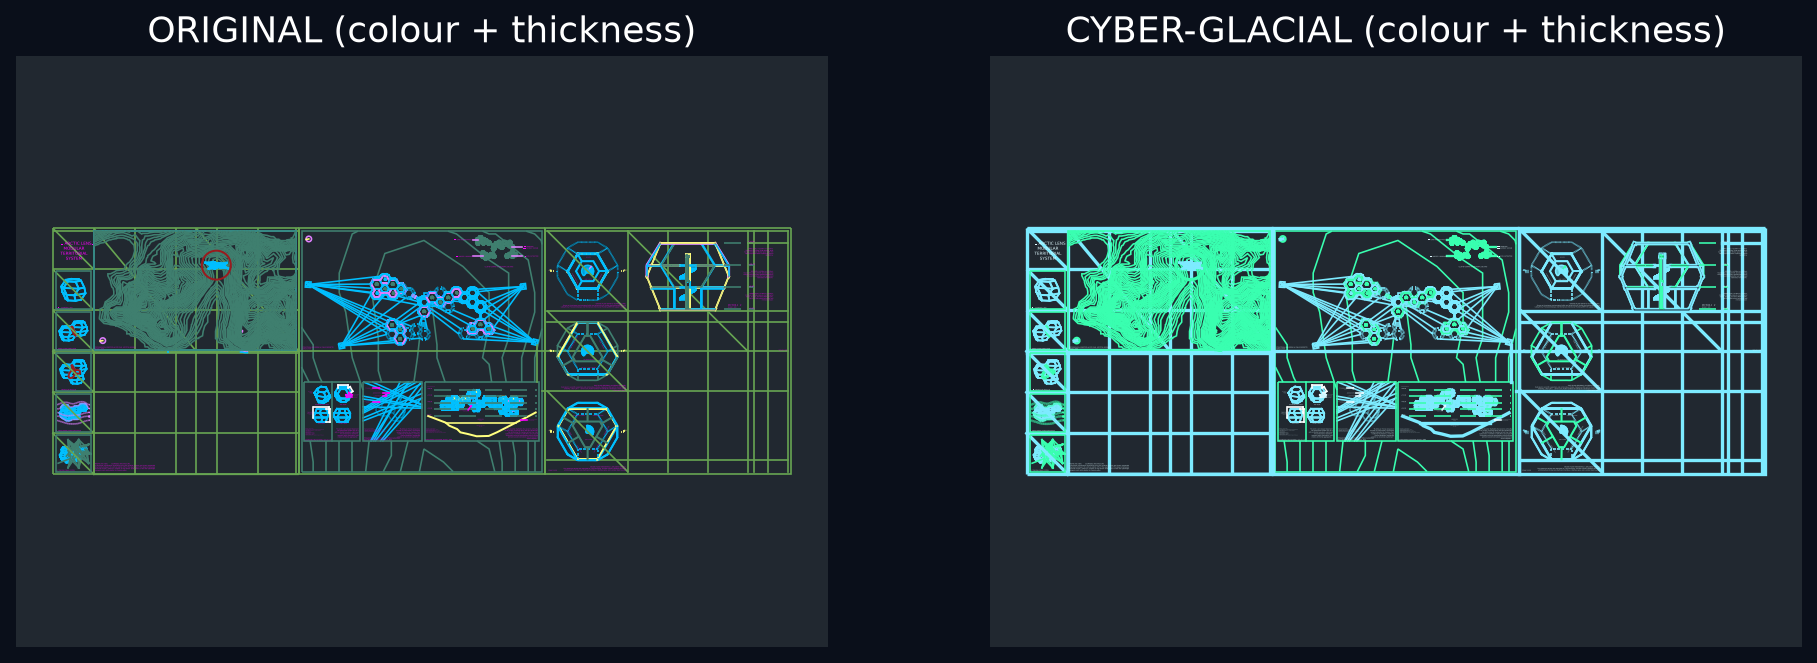
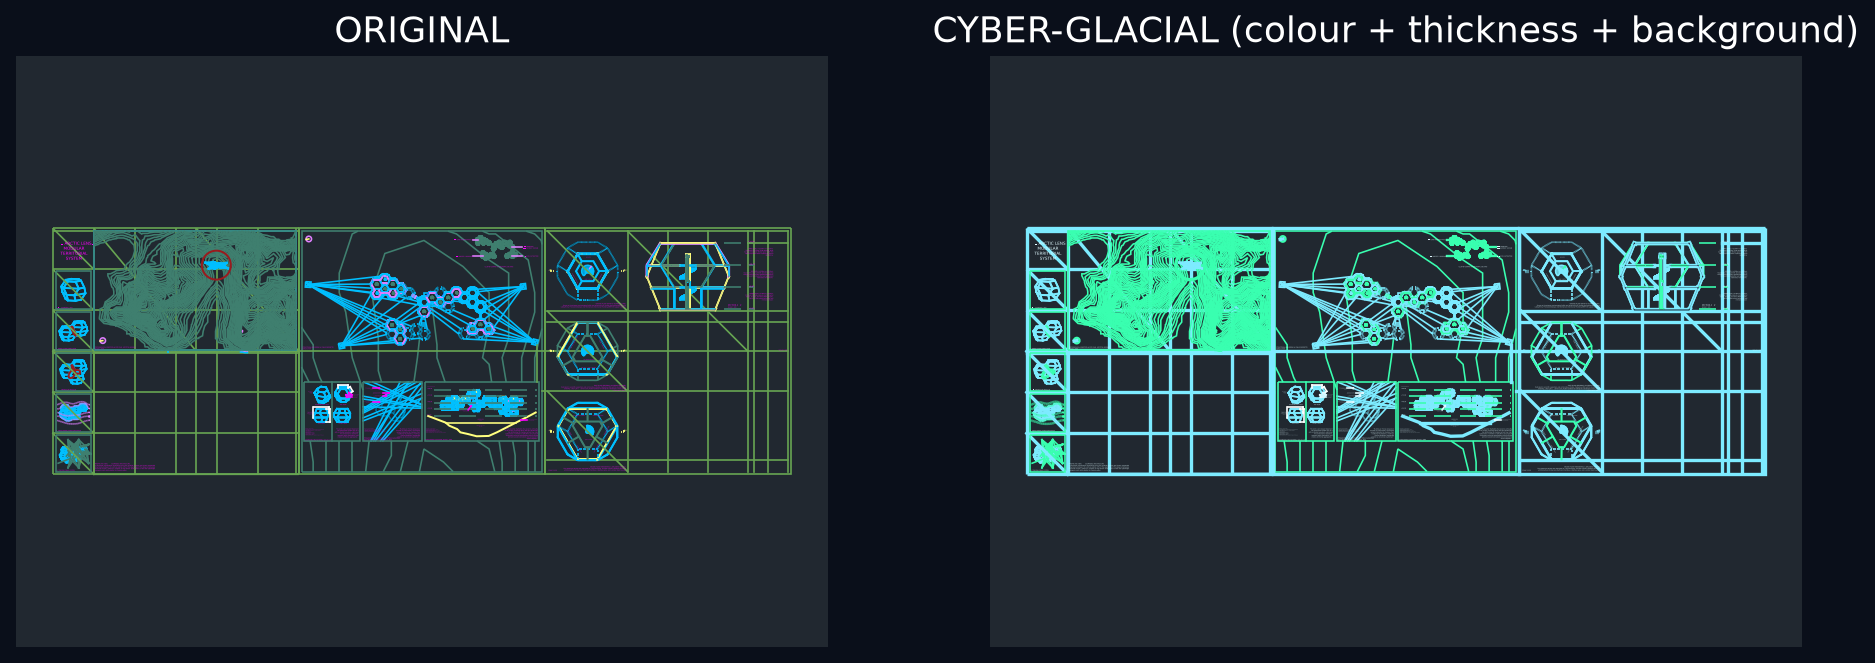
Add Cyber-Glacial background colour to TAVOLE.dxf
- recolor_dxf.py: add BACKGROUND objects (solid, void #0A0F1A) to the
  *Model_Space and *Paper_Space block records, so the CAD viewport background
  matches the Arctic Lens boards (linework + thickness already recolored)
- TAVOLE_cyberglacial.dxf: regenerated with background colour; render IMAGE untouched
- renders/preview.dxf_recolor.png: refreshed before/after

Changed region(s): [[0.4931, 0.0, 1.0, 0.9955], [0.0, 0.0905, 0.4623, 0.9955], [0.0616, 0.0, 0.4007, 0.0905]]

diff --git a/recolor_dxf.py b/recolor_dxf.py
@@ -19,9 +19,38 @@ Lineweight hierarchy (lineweight unit = 1/100 mm):
      9 -> 0.09 mm  hatch fills
 """
 import ezdxf
+from ezdxf.lldxf.types import DXFTag
+from ezdxf.lldxf.extendedtags import ExtendedTags
 
 SRC = "TAVOLE.dxf"
 DST = "TAVOLE_cyberglacial.dxf"
+
+# background (viewport) colour — the Cyber-Glacial void
+VOID_DARK = (10, 15, 26)          # #0A0F1A
+VOID_DARK_INT = (VOID_DARK[0] << 16) | (VOID_DARK[1] << 8) | VOID_DARK[2]
+
+
+def add_background(doc, owner_handle, rgb_int):
+    """Add a solid BACKGROUND object owned by a block record (owner_handle).
+
+    AutoCAD stores the model-/paper-space viewport background as a BACKGROUND
+    object in the OBJECTS section, owned by the corresponding BLOCK_RECORD
+    (*Model_Space, *Paper_Space, ...).  ezdxf has no high-level class for it,
+    so we build it as raw tag storage (verified structure).
+    """
+    obj = doc.objects.add_dxf_object_with_reactor("BACKGROUND", {"owner": owner_handle})
+    handle = obj.dxf.handle
+    obj.store_tags(ExtendedTags([
+        DXFTag(0, "BACKGROUND"),
+        DXFTag(5, handle),
+        DXFTag(330, owner_handle),
+        DXFTag(100, "AcDbBackground"),
+        DXFTag(90, 0),            # type 0 = solid
+        DXFTag(63, rgb_int),      # model-space colour
+        DXFTag(73, rgb_int),      # paper-space colour
+        DXFTag(83, rgb_int),
+    ]))
+    return obj
 
 # layer -> (RGB colour, lineweight in 1/100 mm)
 LAYERS = {
@@ -91,6 +120,13 @@ def main():
     print(f"  {reset_col} entity colour overrides reset to BYLAYER")
     print(f"  {reset_lw} entity lineweight overrides reset to BYLAYER")
     print("  IMAGE (render) left untouched on layer '0'")
+
+    # --- background (viewport) colour -------------------------------------
+    print("\n=== background colour ===")
+    for br in doc.block_records:
+        if br.dxf.name.startswith("*Model_Space") or br.dxf.name.startswith("*Paper_Space"):
+            add_background(doc, br.dxf.handle, VOID_DARK_INT)
+            print(f"  {br.dxf.name!r} -> solid background {VOID_DARK} #{VOID_DARK[0]:02X}{VOID_DARK[1]:02X}{VOID_DARK[2]:02X}")
 
     doc.saveas(DST)
     print(f"\nsaved {DST}")
